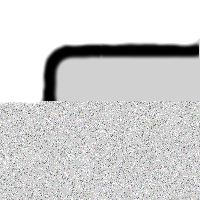
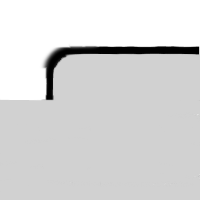
multitexturing

Changed region(s): [[0.0, 0.18, 1.0, 1.0]]

diff --git a/src/object/object.c b/src/object/object.c
@@ -43,46 +43,85 @@ object3d_t *oxygarum_create_object3d(vertex_id num_vertices, vertex3d_t **vertic
   oxygarum_calc_normals(object);
   
   // creating VBO
-  glGenBuffers(1, &object->vbo_id);
-  glBindBuffer(GL_ARRAY_BUFFER, object->vbo_id);
+  /*oxygarum_update_object3d_buffer(object);
   
-  object->vbo = malloc(sizeof(vbo_vertex_t) * object->vbo_vertex_counter);//(vbo_vertex_t*) glMapBuffer(GL_ARRAY_BUFFER, GL_WRITE_ONLY);
-  oxygarum_update_object3d_buffer(object);
-  //glUnmapBuffer(GL_ARRAY_BUFFER);
+  glGenBuffers(1, &object->vbo_vertex_id);
+  glBindBuffer(GL_ARRAY_BUFFER, object->vbo_vertex_id);
+  glBufferData(GL_ARRAY_BUFFER, object->vertex_counter*sizeof(vbo_vertex_t), object->vbo_vertices, GL_STATIC_DRAW);  
   
+  glGenBuffers(1, &object->vbo_index_id);
+  glBindBuffer(GL_ELEMENT_ARRAY_BUFFER, object->vbo_index_id);
+  glBufferData(GL_ELEMENT_ARRAY_BUFFER, object->vbo_index_counter*sizeof(int), object->vbo_indices, GL_STATIC_DRAW);
+  */
   return object;
 }
 
 void oxygarum_update_object3d_buffer(object3d_t *object) {
-  int i,j,k = 0,l=0;
+  int i,j,k,l,m;
   
-  object->vbo_vertex_counter = 0;
+  // indices
+  object->vbo_index_counter = 0;
   for(i = 0; i < object->face_counter; i++) {
-    object->vbo_vertex_counter += object->faces[i]->vertex_counter - 2;
+    object->vbo_index_counter += object->faces[i]->vertex_counter - 2;
   }
-  object->vbo_vertex_counter *= 3;
-
-  object->vbo = realloc(object->vbo, sizeof(vbo_vertex_t) * object->vbo_vertex_counter);  
+  object->vbo_index_counter *= 3;
+  
+  if(object->vbo_indices == NULL) {
+    object->vbo_indices = malloc(sizeof(int) * object->vbo_index_counter);
+  } else {
+    object->vbo_indices = realloc(object->vbo_indices, sizeof(int) * object->vbo_index_counter);
+  }
+  
+  // vertices
+  if(object->vbo_vertices == NULL) {
+    object->vbo_vertices = malloc(sizeof(vbo_vertex_t) * object->vertex_counter);
+  } else {
+    object->vbo_vertices = realloc(object->vbo_vertices, sizeof(vbo_vertex_t) * object->vertex_counter);
+  }
+  
+  // texture coords
+  for(i = 0; i < object->material->texture_counter; i++) {
+    if(object->vbo_tex[i] == NULL) {
+      object->vbo_tex[i] = malloc(sizeof(uv_t) * object->vertex_counter);
+    } else {
+      object->vbo_tex[i] = realloc(object->vbo_tex[i], sizeof(uv_t) * object->vertex_counter);
+    }
+  }  
+  
+  // copy vertices
+  k = 0;
+  for(i = 0; i < object->face_counter; i++) {
+    face_t *face = object->faces[i];
+    for(j = 0; j < face->vertex_counter; j++) {
+      object->vbo_vertices[k].vertex.x = object->vertices[face->vertices[j]]->x;
+      object->vbo_vertices[k].vertex.y = object->vertices[face->vertices[j]]->y;
+      object->vbo_vertices[k].vertex.z = object->vertices[face->vertices[j]]->z;
+      object->vbo_vertices[k].normal.x = object->normals[face->vertices[j]]->x;
+      object->vbo_vertices[k].normal.y = object->normals[face->vertices[j]]->y;
+      object->vbo_vertices[k].normal.z = object->normals[face->vertices[j]]->z;
+      
+      for(m = 0; m < object->material->texture_counter; m++) {
+        object->vbo_tex[m][k].u = face->uv_map[m][j].u;
+        object->vbo_tex[m][k].v = face->uv_map[m][j].v;
+      }
+      k++;
+    }
+  }
+  
+  // create triangulated indices
+  k = 0;
+  int face_off = 0;
   for(i = 0; i < object->face_counter; i++) {
     face_t *face = object->faces[i];
     for(j = 0; j < face->vertex_counter-2; j++) {
-      
       for(l = 0; l < j+3; l++) {
-        object->vbo[k].vertex.x = object->vertices[face->vertices[l]]->x;
-        object->vbo[k].vertex.y = object->vertices[face->vertices[l]]->y;
-        object->vbo[k].vertex.z = object->vertices[face->vertices[l]]->z;
-        object->vbo[k].normal.x = object->normals[face->vertices[l]]->x;
-        object->vbo[k].normal.y = object->normals[face->vertices[l]]->y;
-        object->vbo[k].normal.z = object->normals[face->vertices[l]]->z;
-        object->vbo[k].tex.u = face->uv_map[l].u;
-        object->vbo[k].tex.v = face->uv_map[l].v;
+        object->vbo_indices[k] = face_off + l;
         
         k++;
         if(l == 0) l = j;
       }
     }
   }
-  glBufferData(GL_ARRAY_BUFFER, object->vbo_vertex_counter*sizeof(vbo_vertex_t), object->vbo, GL_STATIC_DRAW);
 }
 
 void oxygarum_calc_normals(object3d_t *object) {

diff --git a/src/render/display.c b/src/render/display.c
@@ -99,7 +99,7 @@ void oxygarum_idle(void) {
 }
 
 void oxygarum_display(void) {
-  int i;
+  int i,j;
   glClear(GL_COLOR_BUFFER_BIT | GL_DEPTH_BUFFER_BIT);
   glClearColor(0.1, 0.1, 0.1, 1.0);  
   
@@ -163,7 +163,18 @@ void oxygarum_display(void) {
       
       material_t *material = obj->object->material;      
       
-      glBindTexture(GL_TEXTURE_2D, material->texture->id);
+      for(j = 0; j < material->texture_counter; j++) {
+        glActiveTexture(GL_TEXTURE0);
+        
+        glEnable(GL_TEXTURE_2D);
+        glBindTexture(GL_TEXTURE_2D, material->textures[j]->id);
+        if(i == 0) {
+          glTexEnvi(GL_TEXTURE_ENV, GL_TEXTURE_ENV_MODE, GL_REPLACE);
+        } else {
+          glTexEnvi(GL_TEXTURE_ENV, GL_TEXTURE_ENV_MODE, GL_MODULATE);
+        }
+      }
+      
       glMaterialfv(GL_FRONT, GL_AMBIENT, material->ambient);
       glMaterialfv(GL_FRONT, GL_DIFFUSE, material->diffuse);
       glMaterialfv(GL_FRONT, GL_SPECULAR, material->specular);
@@ -179,13 +190,24 @@ void oxygarum_display(void) {
       }
       
       if(obj->status & OBJECT_RENDER_VBO) {
-        glEnableClientState(GL_TEXTURE_COORD_ARRAY);
+        for(j = 0; j < material->texture_counter; j++) {
+          glClientActiveTexture(GL_TEXTURE0 + j);
+          glEnableClientState(GL_TEXTURE_COORD_ARRAY);
+          glTexCoordPointer(4, GL_FLOAT, 0, obj->object->vbo_tex[j]);
+        }
+        
+        glBindBuffer(GL_ARRAY_BUFFER, obj->object->vbo_vertex_id);
+        glNormalPointer(   GL_FLOAT, sizeof(vbo_vertex_t), NULL);
+        glVertexPointer(4, GL_FLOAT, sizeof(vbo_vertex_t), sizeof(vector3d_t));
+        
         glEnableClientState(GL_NORMAL_ARRAY);
         glEnableClientState(GL_VERTEX_ARRAY);
         
-        glBindBuffer(GL_ARRAY_BUFFER, obj->object->vbo_id);
-        glInterleavedArrays(GL_T2F_N3F_V3F, sizeof(vbo_vertex_t), NULL);
-        glDrawArrays(GL_TRIANGLES, 0, obj->object->vbo_vertex_counter);
+        glDrawElements(GL_TRIANGLES, obj->object->vbo_index_counter, GL_UNSIGNED_SHORT, NULL);
+        
+        glDisableClientState(GL_NORMAL_ARRAY);
+        glDisableClientState(GL_VERTEX_ARRAY);
+        glDisableClientState(GL_TEXTURE_COORD_ARRAY);
       } else {
         oxygarum_display_object3d(obj->object);
       }
@@ -229,7 +251,17 @@ void oxygarum_display(void) {
       glRotatef(obj->rot, 0.0f,0.0f,1.0f);
       
       material_t *material = obj->object->material;
-      glBindTexture(GL_TEXTURE_2D, material->texture->id);
+      for(j = 0; j < material->texture_counter; j++) {
+        glActiveTexture(GL_TEXTURE0 + j);
+        
+        glEnable(GL_TEXTURE_2D);
+        glBindTexture(GL_TEXTURE_2D, material->textures[j]->id);
+        if(i == 0) {
+          glTexEnvi(GL_TEXTURE_ENV, GL_TEXTURE_ENV_MODE, GL_REPLACE);
+        } else {
+          glTexEnvi(GL_TEXTURE_ENV, GL_TEXTURE_ENV_MODE, GL_MODULATE);
+        }
+      }
       
       oxygarum_display_object2d(obj->object);
       

diff --git a/src/loader/oxy3d_loader.c b/src/loader/oxy3d_loader.c
@@ -57,7 +57,9 @@ object3d_t *oxygarum_load_oxy3d_file(const char *path) {
   sscanf(line, "%s\n", tex_path);
   
   material = oxygarum_create_material("material");
-  material->texture = oxygarum_load_texture(tex_path, 1);
+  texture_t **tex = calloc(1, sizeof(texture_t*));
+  tex[0] = oxygarum_load_texture(tex_path, 1);
+  oxygarum_material_init_textures(material, 1, tex);
   
   readstr(f, line);
   sscanf(line, "AMBIENT %f %f %f %f\n", 
@@ -66,7 +68,7 @@ object3d_t *oxygarum_load_oxy3d_file(const char *path) {
       &material->ambient[2],
       &material->ambient[3]
   );
-    
+  
   readstr(f, line);
   sscanf(line, "DIFFUSE %f %f %f %f\n", 
       &material->diffuse[0], 
@@ -82,7 +84,7 @@ object3d_t *oxygarum_load_oxy3d_file(const char *path) {
       &material->specular[2], 
       &material->specular[3]
   );
-   
+  
   readstr(f, line);
   sscanf(line, "SHININESS %f\n", &material->shininess[0]);
   
@@ -103,7 +105,7 @@ object3d_t *oxygarum_load_oxy3d_file(const char *path) {
   readstr(f, line);
   sscanf(line, "UVMAPS %d\n", &num_uvmaps);
   uv_t **uvmaps = calloc(num_uvmaps, sizeof(uv_t*));
-
+  
   for(i = 0; i < num_uvmaps; i++) {
     int id;
     int size;
@@ -137,7 +139,10 @@ object3d_t *oxygarum_load_oxy3d_file(const char *path) {
     for(j = 0; j < size; j++) {
       fscanf(f, " %d", &va[j]);
     }
-    faces[id] = oxygarum_create_face(size, va, uvmaps[uv_id]);
+    
+    uv_t **uvs = calloc(1, sizeof(uv_t*));
+    uvs[0] = uvmaps[uv_id];
+    faces[id] = oxygarum_create_face(size, va, uvs);
   }
   
   object3d_t *obj = oxygarum_create_object3d(num_vertices, vertices, num_faces, faces, material);

diff --git a/src/object/face.c b/src/object/face.c
@@ -25,7 +25,7 @@
 #include "opengl.h"
 #include "object.h"
 
-face_t *oxygarum_create_face(unsigned int num, vertex_id *vertices, uv_t *uv_map) {
+face_t *oxygarum_create_face(unsigned int num, vertex_id *vertices, uv_t **uv_map) {
   face_t *face = malloc(sizeof(face_t));
   
   face->vertex_counter = num;
@@ -48,7 +48,11 @@ void oxygarum_display_face3d(object3d_t *object, face_t *face) {
   for(i = 0; i < face->vertex_counter; i++) {
     vertex_id id = face->vertices[i];
     
-    glTexCoord2f(face->uv_map[i].u, face->uv_map[i].v);
+    int j;
+    for(j = 0; j < object->material->texture_counter; j++) {
+      glMultiTexCoord2f(GL_TEXTURE0 + j, face->uv_map[j][i].u, face->uv_map[j][i].v);
+    }
+    
     glNormal3f(object->normals[id]->x, object->normals[id]->y, object->normals[id]->z);
     glVertex3f(
  	object->vertices[id]->x,
@@ -72,7 +76,11 @@ void oxygarum_display_face2d(object2d_t *object, face_t *face) {
   for(i = 0; i < face->vertex_counter; i++) {
     vertex_id id = face->vertices[i];
     
-    glTexCoord2f(face->uv_map[i].u, face->uv_map[i].v);
+    int j;
+    for(j = 0; j < object->material->texture_counter; j++) {
+      glMultiTexCoord2f(GL_TEXTURE0 + j, face->uv_map[j][i].u, face->uv_map[j][i].v);
+    }
+    
     glVertex2f(
  	object->vertices[id]->x,
  	object->vertices[id]->y

diff --git a/src/loader/oxy2d_loader.c b/src/loader/oxy2d_loader.c
@@ -52,7 +52,9 @@ object2d_t *oxygarum_load_oxy2d_file(const char *path) {
   sscanf(line, "%s\n", tex_path);
   
   material = oxygarum_create_material("material");
-  material->texture = oxygarum_load_texture(tex_path, 1);
+  texture_t **tex = calloc(1, sizeof(texture_t*));
+  tex[0] = oxygarum_load_texture(tex_path, 1);
+  oxygarum_material_init_textures(material, 1, tex);
   
   readstr(f, line);
   sscanf(line, "VERTICES %d\n", &num_vertices);
@@ -86,7 +88,7 @@ object2d_t *oxygarum_load_oxy2d_file(const char *path) {
       sscanf(line, "%f %f\n", &uvmaps[id][j].u, &uvmaps[id][j].v);
     }
   }
-
+  
   readstr(f, line);
   sscanf(line, "FACES %d\n", &num_faces);
   face_t **faces = calloc(num_faces, sizeof(face_t*));
@@ -105,7 +107,9 @@ object2d_t *oxygarum_load_oxy2d_file(const char *path) {
     for(j = 0; j < size; j++) {
       fscanf(f, " %d", &va[j]);
     }
-    faces[id] = oxygarum_create_face(size, va, uvmaps[uv_id]);
+    uv_t **uvs = calloc(1, sizeof(uv_t*));
+    uvs[0] = uvmaps[uv_id];
+    faces[id] = oxygarum_create_face(size, va, uvs);
   }
 
   object2d_t *obj = oxygarum_create_object2d(num_vertices, vertices, num_faces, faces, material);

diff --git a/include/face.h b/include/face.h
@@ -27,7 +27,7 @@ typedef struct face {
   vertex_id vertex_counter;
   vertex_id *vertices;
   vector3d_t face_normal;
-  uv_t *uv_map;
+  uv_t **uv_map;
 } face_t;
 
 typedef unsigned int face_id;
@@ -36,7 +36,7 @@ typedef unsigned int face_id;
 #include "object.h"
 
 /// allocates memory and adds vertices to the face
-face_t *oxygarum_create_face(unsigned int num, vertex_id *vertices, uv_t *uv_map);
+face_t *oxygarum_create_face(unsigned int num, vertex_id *vertices, uv_t **uv_map);
 /// Draw the face to the OpenGL scene
 void oxygarum_display_face3d(object3d_t *object, face_t *face);
 void oxygarum_display_face2d(object2d_t *object, face_t *face);

diff --git a/include/object.h b/include/object.h
@@ -29,7 +29,6 @@
 #define OBJECT_RENDER_VBO      0x8
 
 typedef struct vbo_vertex {
-  uv_t       tex;
   vector3d_t normal;
   vertex3d_t vertex;
 } vbo_vertex_t;
@@ -42,9 +41,14 @@ typedef struct object3d {
   vector3d_t **normals;
   material_t *material;
   
-  unsigned int vbo_id;
-  unsigned int vbo_vertex_counter;
-  vbo_vertex_t *vbo;
+  // VBO
+  unsigned int vbo_vertex_id;
+  unsigned int vbo_index_counter;
+  unsigned int vbo_index_id;
+  
+  vbo_vertex_t *vbo_vertices;
+  uv_t *vbo_tex[32];
+  int *vbo_indices;
 } object3d_t;
 
 typedef struct object2d {

diff --git a/src/gui/window.c b/src/gui/window.c
@@ -26,8 +26,9 @@ oxygarum_window_t *oxygarum_create_window(float width, float height, texture_t *
   win->size.y = height;
   
   win->material = oxygarum_create_material("gui");
-  win->material->texture = texture;
-
+  texture_t *tex[1] = {texture};
+  oxygarum_material_init_textures(win->material, 1, &tex);
+  
   int i;
   for(i = 0; i < NUM_WINDOW_VERTICES; i++) {
     win->vertices[i] = malloc(sizeof(vertex2d_t));

diff --git a/demo/pong/main.c b/demo/pong/main.c
@@ -90,7 +90,7 @@ void anim(void) {
     if(ball_x <= player1_x+0.8 && ball_x >= player1_x-0.8) {
       direction_y = DIRECTION_FORWARD;
     } else {
-      load_screen->material->texture = oxygarum_load_texture("game_over.png",1);
+      load_screen->material->textures[0] = oxygarum_load_texture("game_over.png",1);
       oxygarum_enable_object2d_status(load_screen_id, OBJECT_VISIBLE);
       game_over = 1;
     }

diff --git a/demo/cube/main.c b/demo/cube/main.c
@@ -32,6 +32,7 @@ int main(int argc, char **argv) {
   id = oxygarum_add_object3d(object, 0, 0, -4);
   oxygarum_rotate_object3d(id, 10, 30, 10);  
   oxygarum_enable_object3d_status(id, OBJECT_TRANSPARENT);
+  oxygarum_disable_object3d_status(id, OBJECT_RENDER_VBO);
   
   texture_t *font_tex = oxygarum_load_texture("../font.png", 1);
   font_t *font = oxygaurm_create_font(font_tex, 8, 8, '!', 14); 

diff --git a/src/material/material.c b/src/material/material.c
@@ -39,3 +39,8 @@ material_t *oxygarum_create_material(const char *name) {
   return material;
 }
 
+void oxygarum_material_init_textures(material_t *material, int num_textures, texture_t **textures) {
+  material->texture_counter = num_textures;
+  material->textures = textures;
+}
+

diff --git a/include/material.h b/include/material.h
@@ -40,7 +40,9 @@ typedef struct material {
   const char *name;
   material_id id;
   color_t color;
-  texture_t *texture;
+  
+  int texture_counter;
+  texture_t **textures;
   
   GLfloat ambient[4];
   GLfloat diffuse[4];
